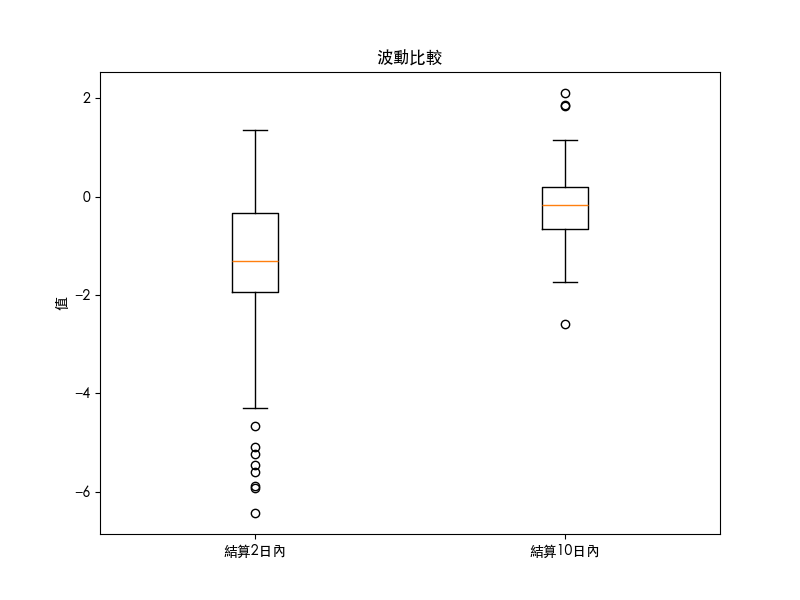
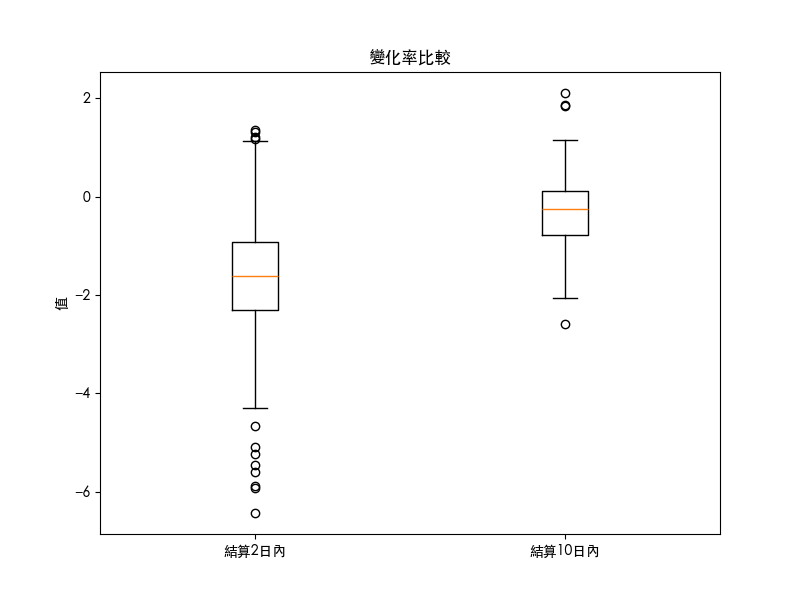
upddate

diff --git a/驗證波動/驗證波動.py b/驗證波動/驗證波動.py
@@ -79,7 +79,7 @@ for code in df_all['證券代碼'].unique():
         actual_dates_count = dates.isin(all_dates).sum()
 
         # 更新剩餘有資料的天數
-        df_all.at[index, '剩餘天數'] = actual_dates_count - 1  # 减去当天
+        df_all.at[index, '剩餘天數'] = actual_dates_count 
 
 
 # 計算波動
@@ -96,8 +96,11 @@ df_all.to_csv(
 def f_test(df_0, df_10):
 
     # 步骤 1: 计算两个日期区间内每日波动率的方差
-    variance_0 = df_0['每日價格波動率'].var(ddof=1) * np.sqrt(252)
-    variance_10 = df_10['每日價格波動率'].var(ddof=1) * np.sqrt(252)
+    std_0 = df_0['每日價格波動率'].std(ddof=1) * np.sqrt(252)
+    std_10 = df_10['每日價格波動率'].std(ddof=1) * np.sqrt(252)
+
+    variance_0 = std_0**2
+    variance_10 = std_10**2
 
     # # 确保 variance_0 是较大的方差
     # if variance_0 < variance_10:
@@ -120,7 +123,7 @@ def f_test(df_0, df_10):
     F_value = round(F_value, 5)
     p_value = round(p_value, 5)
 
-    return variance_0, variance_10, F_value, p_value
+    return std_0, std_10, F_value, p_value
 
 
 def perform_f_test(
@@ -145,7 +148,7 @@ def perform_f_test(
 
     # 执行 f_test 并打印结果
 
-    variance_0, variance_10, F_value, p_value = f_test(df_0=df_0, df_10=df_10)
+    std_0, std_10, F_value, p_value = f_test(df_0=df_0, df_10=df_10)
 
     degreefreedom_0 = len(df_0) - 1
     degreefreedom_10 = len(df_10) - 1
@@ -156,13 +159,13 @@ def perform_f_test(
     # plt.show()
     print(f'{option_type} {price_type}\n')
     print(
-        f'結算{day_1}內波動率: {variance_0}\n結算{day_2}內波動率: {variance_10}\n f值: {F_value}\n p值: {p_value}'
+        f'結算{day_1}內年化波動: {std_0}\n結算{day_2}內波動年化波動: {std_10}\n f值: {F_value}\n p值: {p_value}'
     )
     alpha = 0.05  # 常用的显著性水平
     if p_value < alpha:
-        print('波率存在顯著差異')
+        print('年化波動存在顯著差異')
     else:
-        print('波率不存在顯著差異')
+        print('年化波動不存在顯著差異')
 
     # 确保图表的存储文件夹存在
     if not os.path.exists(images_folder_path):
@@ -180,10 +183,10 @@ def perform_f_test(
     plt.figure(figsize=(8, 6))
     plt.boxplot(
         [df_0['每日價格波動率'], df_10['每日價格波動率']],
-        labels=[f'結算{day_1}日內', f'結算{day_2}日內'],
+        labels=[f'結算{0}-{day_1}日內', f'結算{day_2+1}-{day_2}日內'],
     )
-    plt.title('波動比較')
-    plt.ylabel('值')
+    plt.title(f'{option_type} {price_type}日報酬箱線圖')
+    plt.ylabel('日報酬')
     plt.savefig(temp_image_path)
     plt.close()
 
@@ -200,19 +203,19 @@ def perform_f_test(
         md_file.write(f"## {option_type} {price_type}\n\n")
         md_file.write(
             f'''
-            - 結算{day_1+1}日內波動率: {variance_0}\n
-            - 結算{day_2+1}日內波動率(不含{day_1+1}日內): {variance_10}\n
-            - 結算{day_1}日內自由度: {degreefreedom_0}\n
-            - 結算{day_2}日內自由度(不含{day_1+1}日內): {degreefreedom_10}\n
+            - 結算{0}-{day_1}日內年化波動: {std_0}\n
+            - 結算{day_1+1}-{day_2}日內年化波動: {std_10}\n
+            - 結算{0}-{day_1}日內自由度: {degreefreedom_0}\n
+            - 結算{day_1+1}-{day_2}日內自由度: {degreefreedom_10}\n
             - f值: {F_value}\n
             - p值: {p_value}\n
             - alpha值: {alpha}\n\n'''
         )
         md_file.write(f"""- **結論**: {(
-            '波率存在顯著差異' if p_value < alpha else '波率不存在顯著差異'
+            '年化波動存在顯著差異' if p_value < alpha else '年化波動不存在顯著差異'
         )}\n\n""")
         md_file.write(
-            f"![{option_type} {price_type} 波動比較]({relative_image_path})\n\n"
+            f"![{option_type} {price_type} 每日報酬率比較]({relative_image_path})\n\n"
         )
 
 

diff --git a/驗證波動/report.md b/驗證波動/report.md
@@ -1,210 +1,210 @@
 ## C 深度價內 (DITM)
 
 
-            - 結算2日內波動率: 0.34218
+            - 結算0-1日內年化波動: 2.07981673856765
 
-            - 結算10日內波動率(不含2日內): 0.41755
+            - 結算2-9日內年化波動: 2.511578734446783
 
-            - 結算1日內自由度: 251
+            - 結算0-1日內自由度: 126
 
-            - 結算9日內自由度(不含2日內): 455
+            - 結算2-9日內自由度: 562
 
-            - f值: 0.8195
+            - f值: 0.68574
 
-            - p值: 0.96079
+            - p值: 0.99487
 
             - alpha值: 0.05
 
-- **結論**: 波率不存在顯著差異
+- **結論**: 年化波動不存在顯著差異
 
-![C 深度價內 (DITM) 波動比較](images/C_深度價內_DITM_1_9.png)
+![C 深度價內 (DITM) 每日報酬率比較](images/C_深度價內_DITM_1_9.png)
 
 ## C 價內 (ITM)
 
 
-            - 結算2日內波動率: 3.04794
+            - 結算0-1日內年化波動: 6.484083625928592
 
-            - 結算10日內波動率(不含2日內): 1.69573
+            - 結算2-9日內年化波動: 5.623935003916583
 
-            - 結算1日內自由度: 203
+            - 結算0-1日內自由度: 103
 
-            - 結算9日內自由度(不含2日內): 385
+            - 結算2-9日內自由度: 472
 
-            - f值: 1.79742
+            - f值: 1.32928
 
-            - p值: 0.0
+            - p值: 0.02634
 
             - alpha值: 0.05
 
-- **結論**: 波率存在顯著差異
+- **結論**: 年化波動存在顯著差異
 
-![C 價內 (ITM) 波動比較](images/C_價內_ITM_1_9.png)
+![C 價內 (ITM) 每日報酬率比較](images/C_價內_ITM_1_9.png)
 
 ## C 價平 (ATM)
 
 
-            - 結算2日內波動率: 100.8841
+            - 結算0-1日內年化波動: 42.95137107414853
 
-            - 結算10日內波動率(不含2日內): 5.1357
+            - 結算2-9日內年化波動: 10.663344904810083
 
-            - 結算1日內自由度: 199
+            - 結算0-1日內自由度: 100
 
-            - 結算9日內自由度(不含2日內): 403
+            - 結算2-9日內自由度: 492
 
-            - f值: 19.64367
+            - f值: 16.22434
 
             - p值: 0.0
 
             - alpha值: 0.05
 
-- **結論**: 波率存在顯著差異
+- **結論**: 年化波動存在顯著差異
 
-![C 價平 (ATM) 波動比較](images/C_價平_ATM_1_9.png)
+![C 價平 (ATM) 每日報酬率比較](images/C_價平_ATM_1_9.png)
 
 ## C 價外 (OTM)
 
 
-            - 結算2日內波動率: 43.77707
+            - 結算0-1日內年化波動: 27.952115564404004
 
-            - 結算10日內波動率(不含2日內): 10.42978
+            - 結算2-9日內年化波動: 15.508379386378692
 
-            - 結算1日內自由度: 184
+            - 結算0-1日內自由度: 93
 
-            - 結算9日內自由度(不含2日內): 359
+            - 結算2-9日內自由度: 438
 
-            - f值: 4.19731
+            - f值: 3.2486
 
             - p值: 0.0
 
             - alpha值: 0.05
 
-- **結論**: 波率存在顯著差異
+- **結論**: 年化波動存在顯著差異
 
-![C 價外 (OTM) 波動比較](images/C_價外_OTM_1_9.png)
+![C 價外 (OTM) 每日報酬率比較](images/C_價外_OTM_1_9.png)
 
 ## C 深度價外 (DOTM)
 
 
-            - 結算2日內波動率: 10.77046
+            - 結算0-1日內年化波動: 11.73613974748238
 
-            - 結算10日內波動率(不含2日內): 11.93429
+            - 結算2-9日內年化波動: 13.918930023699014
 
-            - 結算1日內自由度: 183
+            - 結算0-1日內自由度: 94
 
-            - 結算9日內自由度(不含2日內): 389
+            - 結算2-9日內自由度: 462
 
-            - f值: 0.90248
+            - f值: 0.71095
 
-            - p值: 0.78475
+            - p值: 0.97802
 
             - alpha值: 0.05
 
-- **結論**: 波率不存在顯著差異
+- **結論**: 年化波動不存在顯著差異
 
-![C 深度價外 (DOTM) 波動比較](images/C_深度價外_DOTM_1_9.png)
+![C 深度價外 (DOTM) 每日報酬率比較](images/C_深度價外_DOTM_1_9.png)
 
 ## P 深度價內 (DITM)
 
 
-            - 結算2日內波動率: 0.51414
+            - 結算0-1日內年化波動: 1.3724393190132198
 
-            - 結算10日內波動率(不含2日內): 0.53037
+            - 結算2-9日內年化波動: 3.122103823399105
 
-            - 結算1日內自由度: 183
+            - 結算0-1日內自由度: 94
 
-            - 結算9日內自由度(不含2日內): 389
+            - 結算2-9日內自由度: 462
 
-            - f值: 0.9694
+            - f值: 0.19324
 
-            - p值: 0.59066
+            - p值: 1.0
 
             - alpha值: 0.05
 
-- **結論**: 波率不存在顯著差異
+- **結論**: 年化波動不存在顯著差異
 
-![P 深度價內 (DITM) 波動比較](images/P_深度價內_DITM_1_9.png)
+![P 深度價內 (DITM) 每日報酬率比較](images/P_深度價內_DITM_1_9.png)
 
 ## P 價內 (ITM)
 
 
-            - 結算2日內波動率: 2.16265
+            - 結算0-1日內年化波動: 4.821186546419013
 
-            - 結算10日內波動率(不含2日內): 1.56421
+            - 結算2-9日內年化波動: 5.365654627315797
 
-            - 結算1日內自由度: 184
+            - 結算0-1日內自由度: 93
 
-            - 結算9日內自由度(不含2日內): 359
+            - 結算2-9日內自由度: 438
 
-            - f值: 1.38258
+            - f值: 0.80735
 
-            - p值: 0.00498
+            - p值: 0.89581
 
             - alpha值: 0.05
 
-- **結論**: 波率存在顯著差異
+- **結論**: 年化波動不存在顯著差異
 
-![P 價內 (ITM) 波動比較](images/P_價內_ITM_1_9.png)
+![P 價內 (ITM) 每日報酬率比較](images/P_價內_ITM_1_9.png)
 
 ## P 價平 (ATM)
 
 
-            - 結算2日內波動率: 70.63206
+            - 結算0-1日內年化波動: 40.43000255304155
 
-            - 結算10日內波動率(不含2日內): 3.96204
+            - 結算2-9日內年化波動: 9.195158555536873
 
-            - 結算1日內自由度: 199
+            - 結算0-1日內自由度: 100
 
-            - 結算9日內自由度(不含2日內): 403
+            - 結算2-9日內自由度: 492
 
-            - f值: 17.82718
+            - f值: 19.33255
 
             - p值: 0.0
 
             - alpha值: 0.05
 
-- **結論**: 波率存在顯著差異
+- **結論**: 年化波動存在顯著差異
 
-![P 價平 (ATM) 波動比較](images/P_價平_ATM_1_9.png)
+![P 價平 (ATM) 每日報酬率比較](images/P_價平_ATM_1_9.png)
 
 ## P 價外 (OTM)
 
 
-            - 結算2日內波動率: 31.03698
+            - 結算0-1日內年化波動: 21.64743537784381
 
-            - 結算10日內波動率(不含2日內): 7.51062
+            - 結算2-9日內年化波動: 13.08436254935542
 
-            - 結算1日內自由度: 203
+            - 結算0-1日內自由度: 103
 
-            - 結算9日內自由度(不含2日內): 385
+            - 結算2-9日內自由度: 472
 
-            - f值: 4.13241
+            - f值: 2.73721
 
             - p值: 0.0
 
             - alpha值: 0.05
 
-- **結論**: 波率存在顯著差異
+- **結論**: 年化波動存在顯著差異
 
-![P 價外 (OTM) 波動比較](images/P_價外_OTM_1_9.png)
+![P 價外 (OTM) 每日報酬率比較](images/P_價外_OTM_1_9.png)
 
 ## P 深度價外 (DOTM)
 
 
-            - 結算2日內波動率: 8.98488
+            - 結算0-1日內年化波動: 13.170553575502609
 
-            - 結算10日內波動率(不含2日內): 6.85856
+            - 結算2-9日內年化波動: 11.1030232035565
 
-            - 結算1日內自由度: 251
+            - 結算0-1日內自由度: 126
 
-            - 結算9日內自由度(不含2日內): 455
+            - 結算2-9日內自由度: 562
 
-            - f值: 1.31002
+            - f值: 1.4071
 
-            - p值: 0.00683
+            - p值: 0.00516
 
             - alpha值: 0.05
 
-- **結論**: 波率存在顯著差異
+- **結論**: 年化波動存在顯著差異
 
-![P 深度價外 (DOTM) 波動比較](images/P_深度價外_DOTM_1_9.png)
+![P 深度價外 (DOTM) 每日報酬率比較](images/P_深度價外_DOTM_1_9.png)
 
